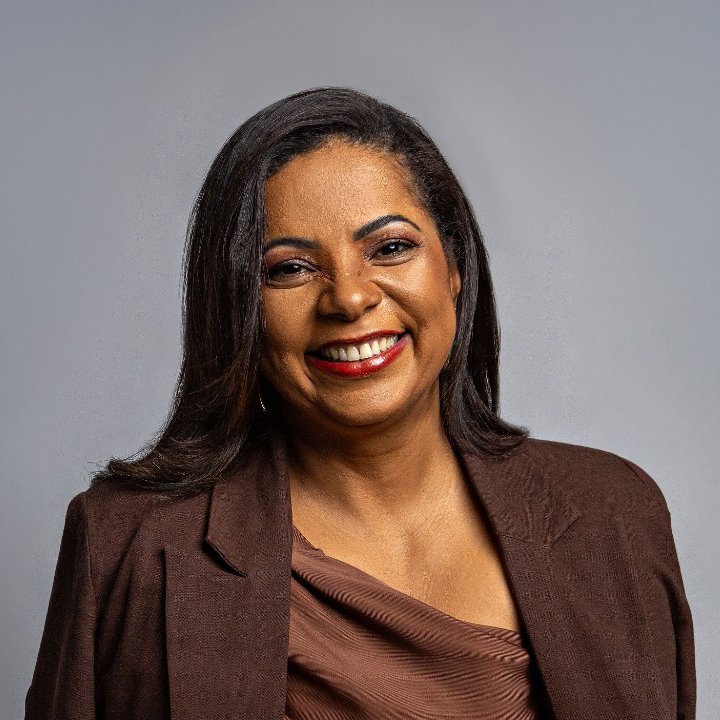
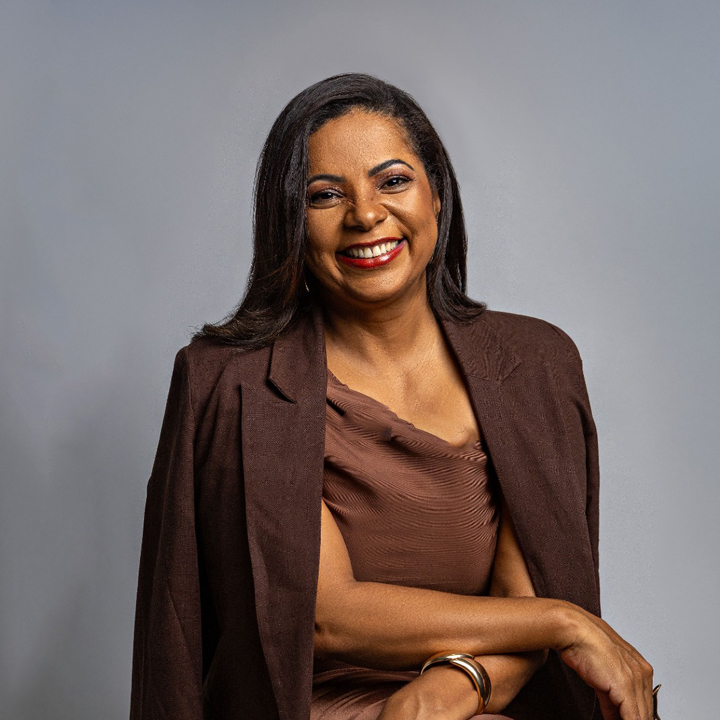
Add files via upload

diff --git a/index.html b/index.html
@@ -158,14 +158,14 @@
         </button>
         
         <button 
-          id="copy-link-btn"
+          id="share-btn"
           class="w-10 h-10 rounded-full flex items-center justify-center luxury-glass-btn hover:text-jc-gold relative"
-          title="Copiar Link do Cartão"
+          title="Compartilhar Cartão"
         >
-          <i id="copy-icon" data-lucide="share-2" class="w-4 h-4 text-jc-gold"></i>
+          <i id="share-icon" data-lucide="share-2" class="w-4 h-4 text-jc-gold"></i>
           
           <span 
-            id="copied-toast"
+            id="share-toast"
             class="absolute bottom-12 right-0 bg-[#1A1A1A] text-[10px] text-white px-3 py-1.5 rounded-lg whitespace-nowrap border border-jc-gold/30 shadow-xl transition-all duration-200 pointer-events-none opacity-0 scale-95 translate-y-2"
           >
             Link copiado!
@@ -243,7 +243,7 @@
             
             <!-- Logomarca à esquerda (apontando para marca.png) -->
             <div class="pr-4 flex items-center justify-end">
-              <img src="marca.png" alt="JC Contabilidade Logo" class="h-[72px] w-auto object-contain drop-shadow-xl" />
+              <img src="marca.png" alt="JC Contabilidade Logo" class="h-[72px] w-auto object-contain drop-shadow-xl" onerror="this.onerror=null; this.src='https://placehold.co/200x80/111111/D4AF37?text=MARCA'" />
             </div>
 
             <!-- Linha Dourada Separadora (Gradiente para mais elegância) -->
@@ -281,13 +281,6 @@
             class="flex-1 py-2.5 text-[9px] sm:text-[10px] font-semibold uppercase tracking-widest rounded-lg transition-all cursor-pointer text-center text-gray-500 hover:text-white"
           >
             Serviços
-          </button>
-          <button
-            id="tab-btn-calculadora"
-            onclick="switchTab('calculadora')"
-            class="flex-1 py-2.5 text-[9px] sm:text-[10px] font-semibold uppercase tracking-widest rounded-lg transition-all cursor-pointer text-center text-gray-500 hover:text-white"
-          >
-            Análise
           </button>
           <button
             id="tab-btn-contato"
@@ -367,7 +360,7 @@
               onclick="switchTab('contato')"
               class="w-full bg-[#111111] hover:bg-jc-gold hover:text-black text-jc-gold border border-jc-gold/40 rounded-xl py-3.5 flex justify-center items-center gap-2 font-bold tracking-widest uppercase text-[10px] shadow-lg transition-all duration-300"
             >
-              <i data-lucide="bar-chart" class="w-4 h-4"></i>
+              <i data-lucide="calendar" class="w-4 h-4"></i>
               <span>Solicitar Diagnóstico Estratégico</span>
             </button>
           </div>
@@ -532,79 +525,7 @@
             </div>
           </div>
 
-          <!-- TAB-C: SIMULADOR (ANÁLISE DE ECONOMIA TRIBUTÁRIA) -->
-          <div id="pane-calculadora" class="tab-pane fade-in flex flex-col w-full text-white">
-            <div class="flex items-center gap-2 pb-2 border-b border-jc-gold/20 mb-4">
-              <i data-lucide="bar-chart-2" class="w-4 h-4 text-jc-gold"></i>
-              <h3 class="text-white font-display text-sm font-semibold tracking-wide">Diagnóstico de Economia</h3>
-            </div>
-
-            <p class="text-[11px] text-gray-300 font-light leading-relaxed mb-5">
-              Simule o impacto financeiro de um planejamento contábil eficiente na sua empresa em comparação à gestão comum.
-            </p>
-
-            <div class="space-y-5 bg-[#111111] p-5 rounded-xl border border-jc-gold/20 mb-5 shadow-inner">
-              <div class="space-y-2">
-                <div class="flex justify-between items-center text-[10px] font-semibold text-gray-400 tracking-widest uppercase">
-                  <span>Faturamento Mensal (Média)</span>
-                  <span id="label-revenue" class="text-jc-gold font-mono font-bold text-xs">R$ 50.000</span>
-                </div>
-                <input 
-                  type="range" 
-                  min="10000" 
-                  max="500000" 
-                  step="10000"
-                  value="50000"
-                  id="calc-revenue"
-                  class="w-full h-1 bg-gray-700 rounded-lg appearance-none cursor-pointer accent-jc-gold"
-                  oninput="updateTaxCalculator()"
-                />
-              </div>
-
-              <!-- Comparative Results -->
-              <div class="grid grid-cols-2 gap-3 pt-3 border-t border-jc-gold/10">
-                <div>
-                  <span class="text-[8px] font-mono font-bold text-gray-500 uppercase tracking-widest block mb-1">Contabilidade Comum</span>
-                  <div class="text-[10px] text-gray-400">Custo Tributário Estimado:</div>
-                  <div id="result-common" class="text-sm font-bold text-gray-300 font-mono mt-0.5">R$ 7.750,00</div>
-                </div>
-                <div class="border-l border-jc-gold/20 pl-3">
-                  <span class="text-[8px] font-mono font-bold text-jc-gold uppercase tracking-widest block mb-1">Contabilidade JC</span>
-                  <div class="text-[10px] text-gray-400">Custo Otimizado Estimado:</div>
-                  <div id="result-optimized" class="text-sm font-bold text-white font-mono mt-0.5">R$ 5.250,00</div>
-                </div>
-              </div>
-            </div>
-
-            <!-- Economy Highlight -->
-            <div class="bg-gradient-to-r from-jc-gold/20 to-[#111] border border-jc-gold/30 rounded-xl p-4 flex items-center justify-between mb-4">
-              <div>
-                <div class="text-[9px] text-jc-gold font-bold uppercase tracking-widest mb-0.5">Economia Anual Projetada</div>
-                <div class="text-[10px] text-gray-300 font-light">Valor retido no caixa da sua empresa</div>
-              </div>
-              <div class="text-right">
-                <span id="result-savings" class="text-base font-black text-white font-mono drop-shadow-md">
-                  R$ 30.000
-                </span>
-              </div>
-            </div>
-
-            <!-- Disclaimer explaining the calculation basis -->
-            <div class="bg-[#111111]/80 p-3 rounded-xl border border-gray-800 mb-5 text-[9px] text-gray-400 leading-relaxed text-justify font-light">
-              <i data-lucide="info" class="inline-block w-3 h-3 text-jc-gold mb-0.5 mr-1"></i>
-              <strong>Base do Cálculo:</strong> Esta é uma simulação referencial baseada em cenários reais de mercado. O custo da <em>"Contabilidade Comum"</em> projeta um negócio enquadrado de forma ineficiente no Lucro Presumido (carga média de 15,5%). A <em>"Contabilidade JC"</em> projeta o impacto de um planejamento tributário estratégico legal, como a migração para o Simples Nacional (Anexo III) ou aplicação de benefícios fiscais (carga otimizada de 10,5%). Os valores reais variam de acordo com o CNAE e o modelo de negócio.
-            </div>
-
-            <button 
-              onclick="switchTab('contato')"
-              class="w-full luxury-primary-btn rounded-xl py-3.5 flex justify-center items-center gap-2 font-bold tracking-widest uppercase text-[10px] shadow-lg"
-            >
-              <span>Solicitar Diagnóstico Real</span>
-              <i data-lucide="arrow-right" class="w-3.5 h-3.5"></i>
-            </button>
-          </div>
-
-          <!-- TAB-D: CONNECT (AGENDAR REUNIÃO VIP) -->
+          <!-- TAB-C: CONNECT (AGENDAR REUNIÃO VIP) -->
           <div id="pane-contato" class="tab-pane fade-in flex flex-col w-full">
             <div class="flex items-center justify-between pb-2 mb-3 border-b border-jc-gold/20">
               <h3 class="text-white font-display text-sm font-semibold tracking-wide">Atendimento Exclusivo</h3>
@@ -664,7 +585,7 @@
           
           <!-- Logo JC Contabilidade no Rodapé (Grande) -->
           <div class="w-32 object-contain flex items-center justify-center mb-1">
-            <img src="logo.png" alt="JC Contabilidade Logo" class="w-full h-auto drop-shadow-md mix-blend-screen" />
+            <img src="logo.png" alt="JC Contabilidade Logo" class="w-full h-auto drop-shadow-md mix-blend-screen" onerror="this.onerror=null; this.src='https://placehold.co/300x100/111111/D4AF37?text=LOGO'" />
           </div>
 
           <!-- Endereço da Empresa -->
@@ -695,29 +616,40 @@
         lucide.createIcons();
         document.getElementById('qr-img').src = `https://api.qrserver.com/v1/create-qr-code/?size=180x180&data=${encodeURIComponent(currentUrl)}&color=000000&bgcolor=FFFFFF`;
         
-        // Setup Calculator Initial State
-        updateTaxCalculator();
-
         // Initialize form message placeholder
         updateSuggestedMessage();
 
-        // Copy button logic
-        document.getElementById('copy-link-btn').addEventListener('click', function() {
-          navigator.clipboard.writeText(currentUrl);
-          const toast = document.getElementById('copied-toast');
-          const icon = document.getElementById('copy-icon');
-          
-          toast.classList.remove('opacity-0', 'scale-95', 'translate-y-2');
-          toast.classList.add('opacity-100', 'scale-100', 'translate-y-0');
-          icon.setAttribute('data-lucide', 'check');
-          lucide.createIcons();
-          
-          setTimeout(() => {
-            toast.classList.add('opacity-0', 'scale-95', 'translate-y-2');
-            toast.classList.remove('opacity-100', 'scale-100', 'translate-y-0');
-            icon.setAttribute('data-lucide', 'share-2');
+        // Share/Copy button logic with Native Web Share API
+        document.getElementById('share-btn').addEventListener('click', async function() {
+          // Checando suporte da API Web Share Nativa (Abre os apps WhatsApp/Insta/etc direto no celular)
+          if (navigator.share) {
+            try {
+              await navigator.share({
+                title: 'Lene Borges | JC Contabilidade',
+                text: 'Acesse meu cartão virtual e conheça a gestão de alto padrão para o seu negócio.',
+                url: currentUrl
+              });
+            } catch (err) {
+              console.log('Compartilhamento cancelado ou falhou.', err);
+            }
+          } else {
+            // Fallback para Copiar Link se o navegador/dispositivo não suportar o compartilhamento nativo
+            navigator.clipboard.writeText(currentUrl);
+            const toast = document.getElementById('share-toast');
+            const icon = document.getElementById('share-icon');
+            
+            toast.classList.remove('opacity-0', 'scale-95', 'translate-y-2');
+            toast.classList.add('opacity-100', 'scale-100', 'translate-y-0');
+            icon.setAttribute('data-lucide', 'check');
             lucide.createIcons();
-          }, 2500);
+            
+            setTimeout(() => {
+              toast.classList.add('opacity-0', 'scale-95', 'translate-y-2');
+              toast.classList.remove('opacity-100', 'scale-100', 'translate-y-0');
+              icon.setAttribute('data-lucide', 'share-2');
+              lucide.createIcons();
+            }, 2500);
+          }
         });
 
         // QR Code toggles
@@ -734,7 +666,8 @@
       });
 
       function switchTab(tabId) {
-        const buttons = ['geral', 'servicos', 'calculadora', 'contato'];
+        // Removida aba 'calculadora' do array de botões
+        const buttons = ['geral', 'servicos', 'contato'];
         buttons.forEach(btn => {
           const buttonEl = document.getElementById(`tab-btn-${btn}`);
           const paneEl = document.getElementById(`pane-${btn}`);
@@ -782,25 +715,6 @@
         switchTab('contato');
       }
 
-      function updateTaxCalculator() {
-        const revenue = Number(document.getElementById('calc-revenue').value);
-        document.getElementById('label-revenue').textContent = 'R$ ' + revenue.toLocaleString('pt-BR');
-        
-        // Mock calculation for demonstration of value
-        // Common accounting (approx 15.5% effective rate for service)
-        const taxCommon = revenue * 0.155; 
-        
-        // Optimized JC Accounting (approx 10.5% effective rate applying annexes strategy)
-        const taxOptimized = revenue * 0.105; 
-        
-        const monthlySavings = taxCommon - taxOptimized;
-        const annualSavings = monthlySavings * 12;
-
-        document.getElementById('result-common').textContent = 'R$ ' + taxCommon.toLocaleString('pt-BR', { minimumFractionDigits: 2, maximumFractionDigits: 2 });
-        document.getElementById('result-optimized').textContent = 'R$ ' + taxOptimized.toLocaleString('pt-BR', { minimumFractionDigits: 2, maximumFractionDigits: 2 });
-        document.getElementById('result-savings').textContent = 'R$ ' + annualSavings.toLocaleString('pt-BR', { minimumFractionDigits: 2, maximumFractionDigits: 2 });
-      }
-
       function updateSuggestedMessage() {
         const subject = document.getElementById('form-subject').value;
         const textarea = document.getElementById('form-message');
@@ -837,6 +751,13 @@
         link.click();
         document.body.removeChild(link);
         URL.revokeObjectURL(url);
+      }
+
+      // Função de haptic feedback inserida para garantir o funcionamento do formulário sem erros no console
+      function triggerHaptic(pattern) {
+        if (navigator.vibrate) {
+          navigator.vibrate(pattern);
+        }
       }
 
       function handleFormSubmission(event) {